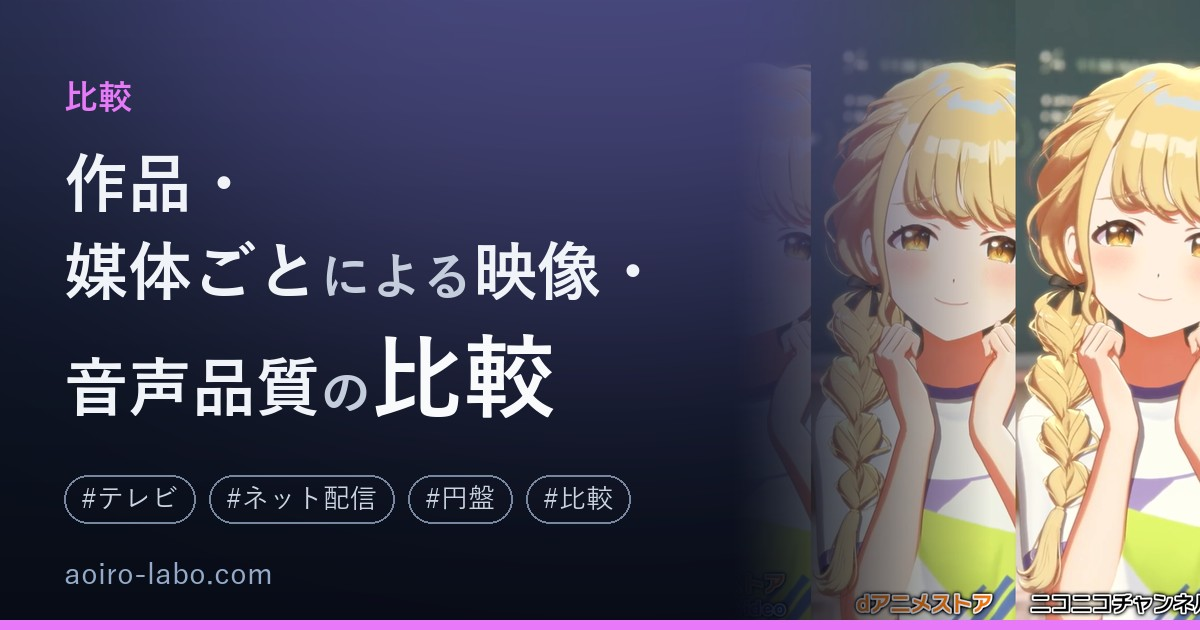
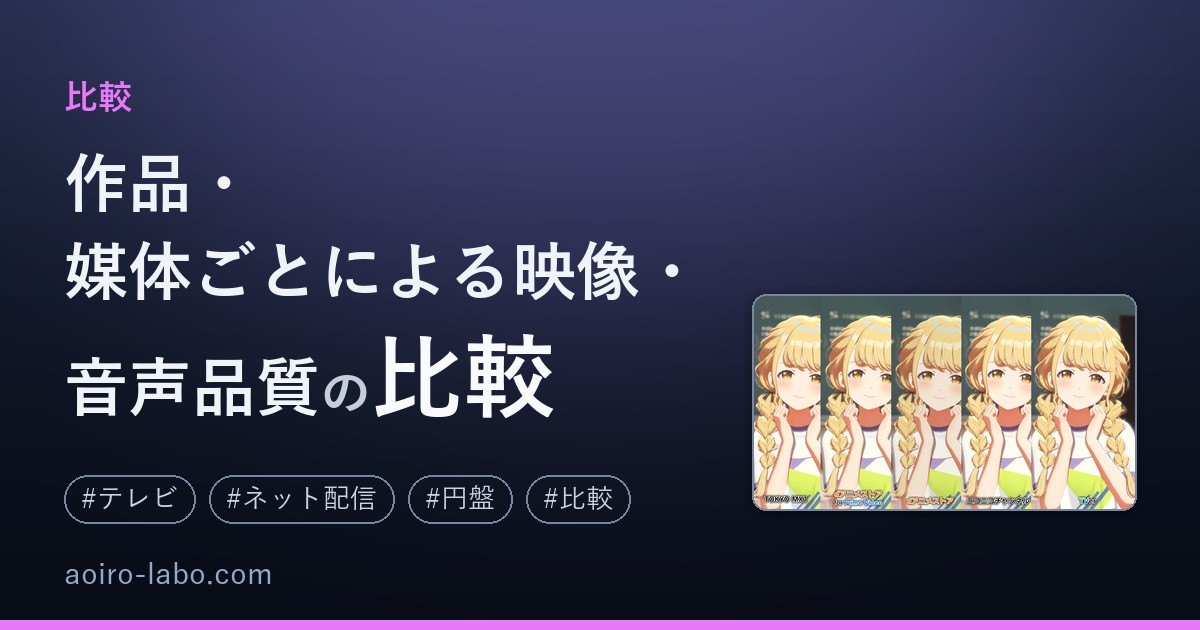
カバーの画像配置を自然配置に変更し、複合助詞の扱いを修正

diff --git a/tools/generate_cover.py b/tools/generate_cover.py
@@ -115,10 +115,19 @@ def classify(atoms, emph, hero):
         if forced=='sub':
             emit(a,'sub'); continue
         if a in COMPOUND:
-            emit(a,'sub',glue=True); continue
+            if out and out[-1][1]=='base' and out[-1][0].endswith(NOSPLIT_END):
+                t0,c0,g0 = out[-1]
+                out[-1] = (t0+a, c0, g0)
+            else:
+                emit(a,'sub',glue=True)
+            continue
         _pref = next((c for c in COMPOUND if a.startswith(c) and len(a)>len(c)), None)
         if _pref:
-            emit(_pref,'sub',glue=True)
+            if out and out[-1][1]=='base' and out[-1][0].endswith(NOSPLIT_END):
+                t0,c0,g0 = out[-1]
+                out[-1] = (t0+_pref, c0, g0)
+            else:
+                emit(_pref,'sub',glue=True)
             a = a[len(_pref):]
             if a in emph:
                 emit(a,'accent'); continue
@@ -276,6 +285,9 @@ def load_image(src):
         print('  img load failed:', src[:80], e)
         return None
 
+def ns_pick(path):
+    return pick_image(path, 'auto')
+
 def pick_image(path, cimg):
     if cimg=='none': return None
     if cimg and cimg!='auto':
@@ -346,13 +358,26 @@ def make(path, out, hero_override=None, emphasis_override=None):
     chips_h = 48 if tags else 0
     cat_h += bracket_h
 
-    panel = pick_image(path, cimg)
+    panel = pick_image(path, cimg) if cimg!='bg' else None
+    if cimg=='bg':
+        pic = ns_pick(path)
+        if pic is not None:
+            scale=max(W/pic.size[0], H/pic.size[1])
+            nw,nh=int(pic.size[0]*scale+0.5), int(pic.size[1]*scale+0.5)
+            bgimg=pic.resize((nw,nh), Image.LANCZOS).crop(((nw-W)//2,(nh-H)//2,(nw-W)//2+W,(nh-H)//2+H))
+            dark=Image.new('RGB',(W,H),(10,15,26))
+            img=Image.blend(bgimg, dark, 0.62)
+            grad=Image.new('L',(W,1))
+            for gx in range(W):
+                grad.putpixel((gx,0), int(150*(1-gx/W)))
+            shade=Image.new('RGB',(W,H),(6,9,16))
+            img=Image.composite(shade, img, grad.resize((W,H)))
+            d=ImageDraw.Draw(img)
     if panel is not None:
         items = classify(split_emph(tokenize(disp), emph, hero), emph, hero)
-        PW_, PH_ = 470, 630
-        col_w = W - MARGIN*2 - 430 - 30
-        def solve_p(ml_target):
-            for size_try in range(92, 39, -4):
+        col_w = int((W - MARGIN*2) * 0.62)
+        def solve_n(ml_target):
+            for size_try in range(96, 39, -4):
                 widths=[]
                 for (text, cls, glue) in items:
                     fnt,_=style_of(cls, size_try, acc); widths.append(d.textlength(text, font=fnt))
@@ -363,48 +388,62 @@ def make(path, out, hero_override=None, emphasis_override=None):
                 return (size_try, lt, widths, hs)
             return None
         sols={}
-        for ml_t in (2,3,4):
-            s=solve_p(ml_t)
+        for ml_t in (2,3):
+            s=solve_n(ml_t)
             if s: sols[ml_t]=s
         if 2 in sols and 3 in sols and sols[2][0]<76 and sols[3][0]>=sols[2][0]:
             chosen=sols[3]
-        else:
+        elif sols:
             chosen=sols[min(sols)]
-        if chosen[0] < 52:
+        else:
+            chosen=None
+        if chosen is None or chosen[0] < 56:
             panel=None
-            print('  image dropped (title too long for panel):', out)
-        size, lines, widths, heights = chosen
-        block_h=sum(heights)
-        total = cat_h + block_h + (30 if tags else 0) + chips_h
-        y = (H - total)//2 - 14
-        if cat:
-            d.text((MARGIN, y), cat, font=ImageFont.truetype(BOLD, 34), fill=acc); y += 34+30
-        if bracket and panel is not None:
-            d.text((MARGIN, y), bracket, font=ImageFont.truetype(BOLD, 30), fill=SUBC); y += bracket_h
-        if panel is not None:
+            print('  image dropped (no room beside text):', out)
+        else:
+            size, lines, widths, heights = chosen
+            block_h=sum(heights)
+            total = cat_h + block_h + (30 if tags else 0) + chips_h
+            y = (H - total)//2 - 14
+            if cat:
+                d.text((MARGIN, y), cat, font=ImageFont.truetype(BOLD, 34), fill=acc); y += 34+30
+            if bracket:
+                d.text((MARGIN, y), bracket, font=ImageFont.truetype(BOLD, 30), fill=SUBC); y += bracket_h
             draw_lines(d, items, lines, widths, MARGIN, y, size, acc, heights)
-            paste_banner(img, panel)
-        y += block_h
-        if tags:
-            y += 30
-            tf=ImageFont.truetype(REG, 27)
-            x=MARGIN
-            for tg in tags[:5]:
-                label='#'+tg
-                tw=d.textlength(label, font=tf)
-                if x+tw+34 > MARGIN+col_w: break
-                d.rounded_rectangle([x,y,x+tw+34,y+48], radius=24, outline=(120,135,160), width=2)
-                d.text((x+17,y+9), label, font=tf, fill=(203,213,225))
-                x+=tw+34+14
-        if panel is not None:
+            y += block_h
+            if tags:
+                y += 30
+                tf=ImageFont.truetype(REG, 27)
+                x=MARGIN
+                for tg in tags[:5]:
+                    label='#'+tg
+                    tw=d.textlength(label, font=tf)
+                    if x+tw+34 > MARGIN+col_w: break
+                    d.rounded_rectangle([x,y,x+tw+34,y+48], radius=24, outline=(120,135,160), width=2)
+                    d.text((x+17,y+9), label, font=tf, fill=(203,213,225))
+                    x+=tw+34+14
+            region_w = W - MARGIN - (MARGIN+col_w) - 24
+            region_h = H - 190
+            scale=min(region_w/panel.size[0], region_h/panel.size[1])
+            nw,nh=int(panel.size[0]*scale), int(panel.size[1]*scale)
+            thumb=panel.resize((nw,nh), Image.LANCZOS)
+            px = W - MARGIN - nw
+            py = H - 120 - nh
+            shadow=Image.new('RGBA',(nw+16,nh+16),(0,0,0,0))
+            sd=ImageDraw.Draw(shadow)
+            sd.rounded_rectangle([8,10,nw+8,nh+12], radius=14, fill=(0,0,0,110))
+            shadow=shadow.filter(ImageFilter.GaussianBlur(6))
+            img.paste(shadow,(px-8,py-8),shadow)
+            mask=Image.new('L',(nw,nh),0)
+            md=ImageDraw.Draw(mask)
+            md.rounded_rectangle([0,0,nw,nh], radius=14, fill=255)
+            img.paste(thumb,(px,py),mask)
+            d.rounded_rectangle([px,py,px+nw,py+nh], radius=14, outline=(120,135,160), width=2)
             d.text((MARGIN,H-72), 'aoiro-labo.com', font=ImageFont.truetype(REG, 30), fill=(148,170,200))
             d.rectangle([0,H-10,W,H], fill=acc)
             img.save(out, quality=90)
-            print('made (panel)', out, '| hero:', hero, '| lines:', [[t for (t,c,g) in ln] for ln in lines])
+            print('made (natural)', out, '| hero:', hero, '| lines:', [[t for (t,c,g) in ln] for ln in lines])
             return
-        # panel dropped: rebuild canvas and continue to flow layout
-        img = background(acc)
-        d = ImageDraw.Draw(img)
     zone = False
     if hero and disp.endswith(hero):
         # try zone composition: hero block on the right, white

diff --git a/archetypes/default.md b/archetypes/default.md
@@ -6,5 +6,5 @@ slug = 'english-slug-here'
 # cover = '/images/cover-slug.jpg'
 # cover_keyword = '最強調したい語（白・最大で描く）'
 # cover_emphasis = ['次点の重要語（アクセント色）']
-# cover_image = 'auto'  # auto=本文画像から自動選択 / none / URL指定
+# cover_image = 'auto'  # auto=空きスペースに自然比率で配置 / bg=全面背景 / none / URL指定
 +++
